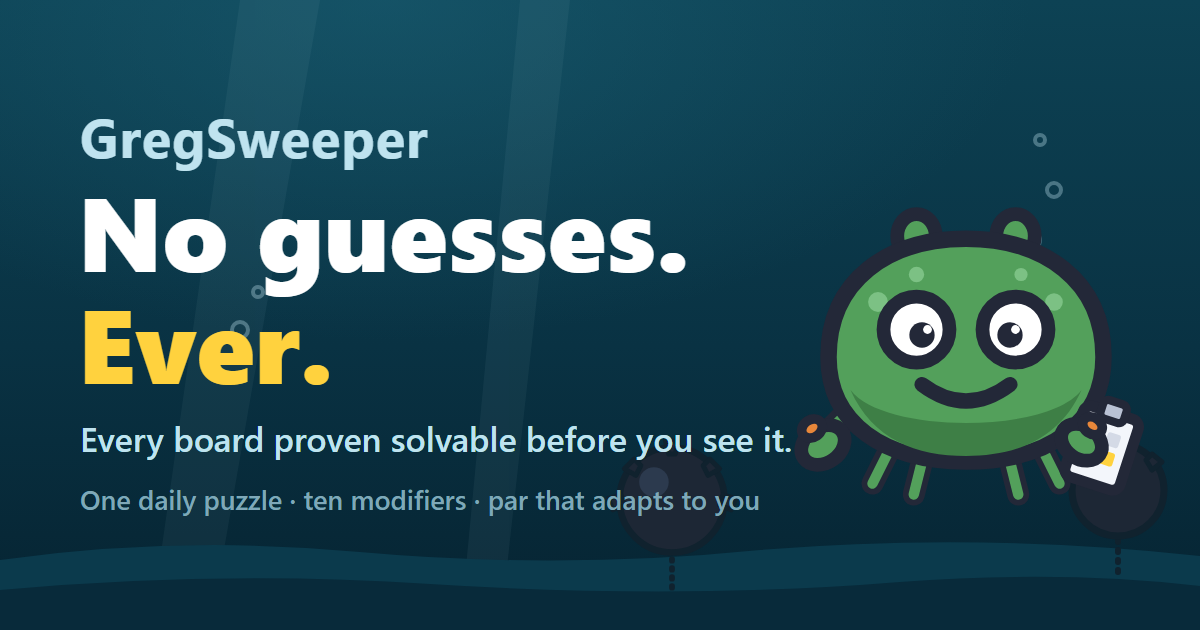
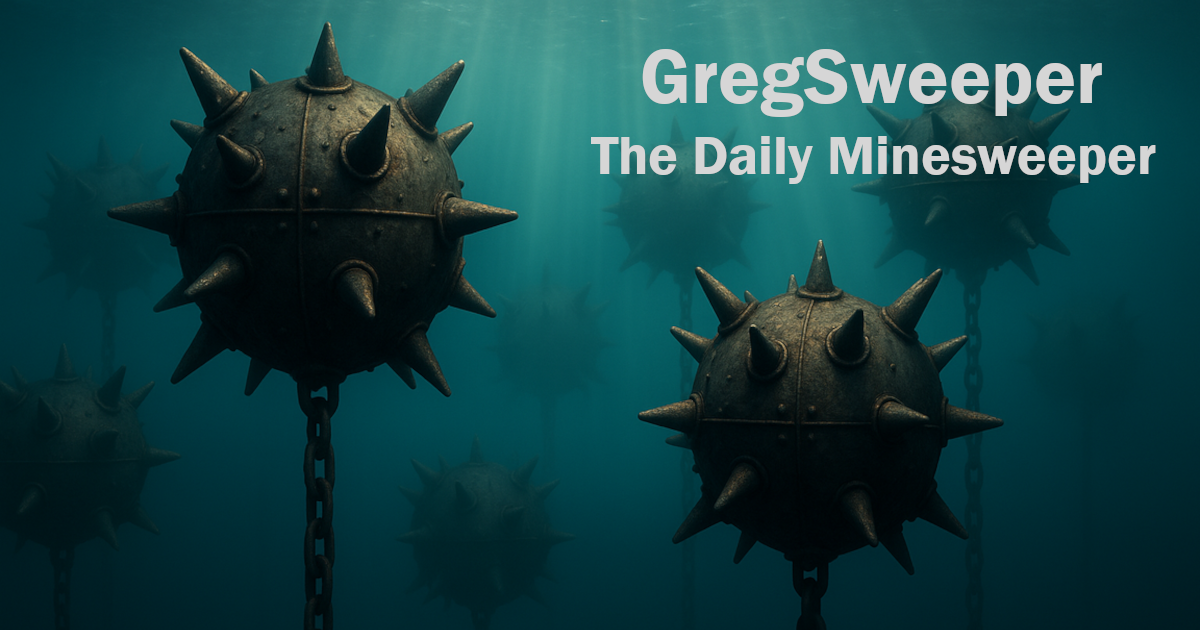
og-card: drawn card rejected, original photographic card restored
The flat-style drawn card did not pass review. og-card.png reverts to
the original photographic underwater-mines card; the SVG master and its
export script are removed, the sprite-chain test no longer asserts
them, and CLAUDE.md records that any future og-card change keeps the
photographic mood. og-compare.html now shows the live decision:
original untouched versus the same photo with the contract headline
typeset into the open water to match the baked title.

diff --git a/scripts/og-compare.html b/scripts/og-compare.html
@@ -1,11 +1,13 @@
 <!DOCTYPE html>
 <!--
-  og-card comparison: the original photographic card (from main) next
-  to the drawn draft, at full size and timeline-thumbnail size. Open
-  via the local server: http://localhost:8080/scripts/og-compare.html
-  The original is extracted to .playwright-mcp/og-original.png by
-  `git show main:assets/og-card.png` (gitignored scratch dir); if that
-  file is missing, re-extract it.
+  og-card decision: the original photographic card untouched, next to
+  the same photo with the contract headline typeset into the open water
+  (matching the baked title's white + yellow). The drawn flat-style
+  card was rejected on review and is gone. Open via the local server:
+  http://localhost:8080/scripts/og-compare.html
+  Both reference images live in .playwright-mcp/ (gitignored scratch):
+  og-original.png from `git show main:assets/og-card.png`, and
+  og-overlay-mock.png rendered from og-overlay-build.html.
 -->
 <html lang="en">
 <head>
@@ -22,16 +24,16 @@
 </style>
 </head>
 <body>
-<h1>og-card: original photo vs drawn draft</h1>
+<h1>og-card: original untouched vs original plus headline</h1>
 <h2>Full size (1200x630, shown at 560 wide)</h2>
 <div class="pair">
   <figure>
     <img src="../.playwright-mcp/og-original.png" width="560">
-    <figcaption>Original (photographic, currently live on main)</figcaption>
+    <figcaption>Original, untouched (currently live)</figcaption>
   </figure>
   <figure>
-    <img src="../assets/og-card.png" width="560">
-    <figcaption>Drawn draft (this branch)</figcaption>
+    <img src="../.playwright-mcp/og-overlay-mock.png" width="560">
+    <figcaption>Original plus the contract headline, typeset to match the baked title</figcaption>
   </figure>
 </div>
 <h2>Timeline-thumbnail size (roughly how a link preview renders)</h2>
@@ -41,8 +43,8 @@
     <figcaption>Original</figcaption>
   </figure>
   <figure>
-    <img src="../assets/og-card.png" width="280">
-    <figcaption>Drawn draft</figcaption>
+    <img src="../.playwright-mcp/og-overlay-mock.png" width="280">
+    <figcaption>With headline</figcaption>
   </figure>
 </div>
 </body>

diff --git a/CLAUDE.md b/CLAUDE.md
@@ -83,7 +83,7 @@ Two-layer solver guarantees no 50/50 guesses:
 - **The Certificate stamp (2026-06-12, the front-door PR)**: `state.boardCertificate = { clicks, tier }` built by `certificateFromCheck` in boardSolver.js (null unless the check certified a full clear — a failed solve must never stamp). Stamp sites: daily and weekly use the bestStart cell's OWN full-solve check (the chip's claim is "solvable without guessing from the marked start", so the center check that feeds features/par is the wrong witness; no full-solve anchor → no stamp); challenge and timed use the accepted check from the generation loop (the contract runs from the player's actual first click); chaos never stamps (its modifiers apply post-loop unverified). Persisted/restored by gamePersistence. Rendered as the ✓ Certified chip riding the existing `#game-info-bar` row (NOT a bar of its own — phone vertical space is the budget, and gimmick-free boards must not pay a row for the chip) with a plain-language modal (`showCertificateModal` in headerRenderer.js: deduction count = clicks - 1, tier in plain words, daily/weekly add the generated-and-recheck line); chaos shows the inverse "No guarantees" chip on `#chaos-modifier-bar`, opening the same modal's exception copy. Companion front-door copy: title headline "No guesses. Ever." (title screen + in-game header) with the proof subline, the guarantee as the first Basics block in help, and the unnumbered tutorial promise step (`id: 'promise'`). On phones (≤480px) the in-game wordmark block (`#app #title-bar`) is display:none — every row above the board is rent, the title screen owns the brand, and the chip carries the contract; About is reachable from Settings (`#btn-about`) as well as the desktop wordmark tap.
 - **Reveal Safe power-up** is deduction-first: it reveals the next PROVABLY-safe cell (a worked example) and only falls back to the old random-safe oracle at a genuine frontier. X-Ray/Scan remain oracles but power-ups are structurally empty in daily/weekly/timed, so they never touch instrumented modes.
 - **Greg's voice** (`src/logic/gregVoice.js`, pure + node-tested): the meta-layer made legible, with hard rules — Greg never says a number the engine can't prove, the bad days speak too, and each surface renders once per session. Three surfaces: (1) **Field Note** on the daily title card — derived from the CANONICAL BOARD via `fieldNoteFromBoard` (the stamped `missionTarget`/`missionIsPrimary` when present, else the board's actual `activeGimmicks`), NEVER by re-deriving the seed's slot against the current experimentTarget.json: boards are pre-generated up to 7 days ahead and the nightly refit reorders the coverage list, so slot re-derivation names the wrong gimmick (2026-06-10 incident: a wormhole board labeled a compass study); (2) **yesterday note** in the leaderboard modal — the closed loop from modelHistory.json diffs, with all four honesty branches first-class (tightened / WIDENED / fit-rejected / nobody-played); (3) **Lab File** — when handicaps.json v2 ships `handicapDetails` ({clean, bomb} per uid, emitted by both refit paths), the win modal's "Your par" becomes an itemization: `Your par 110.5s = Greg 96.0s your pace +8.4s bombs +6.1s`. No decomposition shipped → the plain line renders; the split is never fabricated client-side.
-- **Greg the character (2026-06-12)**: Greg is a FICTIONAL green-crab field scientist (the name is a joke that stuck; the green-crab invasion angle stays an Easter egg, never the pitch). Canon sentence: "Greg checks every board before you play it, and keeps notes on how you solve." The three Tier 1 smiley slots (`assets/sprites/idle.png` / `win.png` / `loss.png`) ARE Greg — idle holds the clipboard, win throws claws up, loss is flipped on his back; SVG masters live in `assets/sprites/greg/` (three candidate directions a/b/c, reviewed via `scripts/greg-gallery.html`; the shipped slots export from the chosen direction via `scripts/export-greg-sprites.ps1 -Direction <a|b|c>`, headless-Chrome rasterization at 512px transparent). The spriteLoader chain is untouched: Greg renders only where the resolved emoji equals the canonical 😊/😎/😵 (Classic/Dark); themes that override the smiley keep their identity (`test/spriteChain.test.mjs` pins this). Avatar surfaces always show Greg regardless of theme via `spriteImgHTML('smiley', ...)`: the Daily field note (`.sprite-greg-note`), the win-modal Greg's Time line (`.sprite-greg-par`, daily + timed), and the **leaderboard ghost row** (`_gregGhostRow` in main.js) — Greg's par spliced into the daily AND weekly scores tables at its par-sorted position (ties go to the player), dashed `.greg-row` styling, crab sprite where the rank number would be, NO rank so humans keep theirs, Friends view included, skipped when par is unavailable. **Meet-Greg card** (`#meet-greg-modal`, outside `#app`): one-time intro on the first title-screen view once onboarded (`hasSeenNotice('meet_greg')`), idle sprite + two canon sentences. The social preview `assets/og-card.png` is exported from `assets/og-card.svg` (drawn benthic-minefield scene: contract headline + Greg) via `scripts/export-og-card.ps1`.
+- **Greg the character (2026-06-12)**: Greg is a FICTIONAL green-crab field scientist (the name is a joke that stuck; the green-crab invasion angle stays an Easter egg, never the pitch). Canon sentence: "Greg checks every board before you play it, and keeps notes on how you solve." The three Tier 1 smiley slots (`assets/sprites/idle.png` / `win.png` / `loss.png`) ARE Greg — idle holds the clipboard, win throws claws up, loss is flipped on his back; SVG masters live in `assets/sprites/greg/` (three candidate directions a/b/c, reviewed via `scripts/greg-gallery.html`; the shipped slots export from the chosen direction via `scripts/export-greg-sprites.ps1 -Direction <a|b|c>`, headless-Chrome rasterization at 512px transparent). The spriteLoader chain is untouched: Greg renders only where the resolved emoji equals the canonical 😊/😎/😵 (Classic/Dark); themes that override the smiley keep their identity (`test/spriteChain.test.mjs` pins this). Avatar surfaces always show Greg regardless of theme via `spriteImgHTML('smiley', ...)`: the Daily field note (`.sprite-greg-note`), the win-modal Greg's Time line (`.sprite-greg-par`, daily + timed), and the **leaderboard ghost row** (`_gregGhostRow` in main.js) — Greg's par spliced into the daily AND weekly scores tables at its par-sorted position (ties go to the player), dashed `.greg-row` styling, crab sprite where the rank number would be, NO rank so humans keep theirs, Friends view included, skipped when par is unavailable. **Meet-Greg card** (`#meet-greg-modal`, outside `#app`): one-time intro on the first title-screen view once onboarded (`hasSeenNotice('meet_greg')`), idle sprite + two canon sentences. The social preview `assets/og-card.png` stays the photographic underwater-mines card; a drawn flat-style replacement was rejected on review (2026-06-12), so any og-card change keeps the photographic mood.
 - **Greg’s Gym** (player-facing name; modules keep their original lexicon filenames) (`src/logic/lexicon.js` + `src/ui/lexiconUI.js`, the 🏋️ mode card on the title screen — a play destination, not footer chrome; lazy-loaded): generated single-technique lessons behind the **deducibility click-gate** — clicking a cell that is not currently provably safe bounces and pulses the proving region of an available deduction; the player physically cannot luck through, and the pattern is NAMED only after they perform it. Flags are gated the same way (right-click / long-press): a flag only sticks on a square the clues can settle as a MINE, so a flag is a worked deduction, never a guess marker; tapping a flagged square unflags it. The admission predicate IS the curriculum: `LESSONS.subset12` accepts only boards with `canonicalSubsetMoves >= 1` and nothing harder (no generic subsets / tank / disjunctive). Measured yield (`scripts/measure-lexicon-yield.mjs`): 1-in-3 to 1-in-5 at small sizes, <=8ms per accepted board — live generation, no pre-baked content. Tested invariant: every lesson is completable through provably-safe clicks alone (the gate can never soft-lock). The gym is fully voiced through the theme sound engine (reveal/cascade/flag/unflag/win + `playGateBounce`, a soft unthemed "not yet" for gate rejections) and supports CHORDING — gym flags are gate-proven mines, so a satisfied number has proven its remaining neighbors safe and the chord can never hit a mine (a half-flagged chord attempt gets the teaching bounce; an idle tap on an unflagged number stays silent). A mines-left counter + board number sit above the grid (the same anchor the main LCD provides). **In-the-moment coaching** (`_celebrate` + the `.lexicon-coach` line in lexiconUI.js): the gate teaches on failure (Socratic bounce), success notes teach on success — every tier-1 subset move is named from the two clue digits on screen ("Excellent use of the 1-2 pattern!"), the FIRST per board carries a recognition tip (overlap-subtraction framing from the classic pattern vocabulary: the 2's leftover square is a mine, the 1's leftover is safe, flagged mines reduce a 2-3 to a 1-2), later ones get short rotating affirmations; proven-mine flags get their `explainDeduction` reasoning once per board then a nod; first chord per board explains the mechanic; tier-0 safe reveals stay deliberately silent. ALL gym messages (bounces and cheers alike) render on the coach line UNDER the board, updated in place — global toasts queue serially, so under quick play a queued note would land seconds after the move it praises. The completing tier-1 move still gets its cheer (on these small boards the pattern move is often the LAST move; a blanket suppress-on-completion ate exactly the note the coaching exists for), with the naming paragraph carrying the full explanation. Prototype scope: one technique; expand only if it earns play.
 
 **Generation (challenge mode, `gameActions.js`):** Retry loop with two layers of "smart":